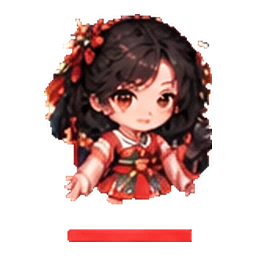
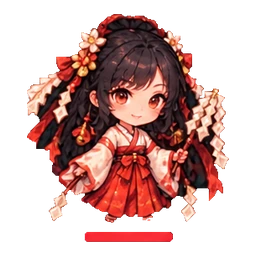
fix: [ART-POLISH-C-02] 무녀 식별성·정화 링 가독성 - 신당회 무녀 토큰을 새 그림(전신·흰 무구)으로 교체, 정화 도깨비·장산범 링을 금백색 2px + 바깥 먹색 1px 로 보강(번짐 없음), 달래 보스·다른 아트·규칙 변경 없음
Claude-Session: https://claude.ai/code/session_01EmF9GJCvFbzTipZNHHLaCs

diff --git a/joseon-exorcist/index.html b/joseon-exorcist/index.html
@@ -160,8 +160,10 @@
   .unit.has-art.k-human { background: rgba(142, 67, 56, .2); }
   .unit.has-art.f-bs, .unit.has-art.f-guest { background: rgba(51, 70, 85, .4); }
   .unit.has-art.k-boss { background: rgba(21, 20, 17, .75); } /* 1장 흑린: 자주 그림이 자주 바탕에 묻히지 않게 먹색 바탕 (테두리는 귀물 자주 그대로) */
-  /* ART-PHASE-C-02 (2장 정화된 도깨비·장산범): 1장과 같은 그림 + 그림 안쪽 옅은 금백색 가는 링 (자주 테두리·HP·표식 그대로) */
-  .unit.k-purified .art::after { content: ''; position: absolute; inset: 2px; border-radius: inherit; box-shadow: inset 0 0 0 1.5px rgba(236, 226, 198, .6); }
+  /* ART-PHASE-C-02 (2장 정화된 도깨비·장산범): 1장과 같은 그림 + 그림 안쪽 상태 링 (자주 테두리·HP·표식 그대로)
+     POLISH-C-02: 금백색 2px + 그 바깥 먹색 1px — 흰 장산범 털 위에서도 보이게. 번짐 없음 */
+  .unit.k-purified .art::after { content: ''; position: absolute; inset: 2px; border-radius: inherit;
+    box-shadow: inset 0 0 0 1px rgba(21, 20, 17, .85), inset 0 0 0 3px rgba(236, 226, 198, .9); }
   #ask { position: fixed; inset: 0; z-index: 44; background: rgba(4, 5, 8, .75); display: flex; align-items: center; justify-content: center; padding: 20px; }
   #ask .card { max-width: 340px; width: 100%; background: var(--panel); border: 1px solid #e2c26b; border-radius: 10px; padding: 18px 16px; text-align: center; display: flex; flex-direction: column; gap: 10px; }
   .pt.barrier { background: #3d6ea8; color: #fff; }

diff --git a/joseon-exorcist/QA-ART-PHASE-C-02.md b/joseon-exorcist/QA-ART-PHASE-C-02.md
@@ -42,3 +42,21 @@
 - **DESIGN**: 정화 링이 흰 장산범 위에서 거의 안 보인다 (도깨비 위에서는 보임). 링 색·두께 조정은 기획 판단
 - **BUG (이번 작업 전부터)**: 첫 화면(제목)에서 1장 토큰 9개를 불러온다 — 숨은 전투 판이 기본값 1장으로 한 번 그려지기 때문. `d09ccf1` 에서도 같음. 2장 진입 때의 미리 불러오기는 2장 그림만이다. 고치지 않음
 - 확인 스크립트 문제 2건 (알림 줄 사이 틈에 캡처 / 링 번짐 판정식) — 게임 코드 문제 아님
+
+## ART-POLISH-C-02 — 무녀 식별성 · 정화 링 가독성 (2026-09-27)
+- `assets/enemies/shindang_munyeo_battle.webp` → 새 무녀 그림으로 덮어씀 (파일명 그대로, contain, 확대 없음, 재크롭 없음). 적갈 네모·사람 표식·HP·🪭 fallback 그대로
+- 정화 링 (`dokkaebi_p`·`jangsan_p` 공통): 안쪽 금백색 2px + 그 바깥 먹색 1px. 위치(그림 안쪽 2px)·번짐 없음·자주 테두리·표식·HP 그대로
+- 달래 보스 · 다른 그림 · 규칙 · 대사 변경 없음. core 차이 없음
+- 확인: `node --test` 343 통과 / 2장 **PASS 25** (새 확인: 링 = 먹색 1px + 금백색 2px, 모든 겹 번짐 없음) / 1장 **20** / 1~4장 **32** (3·4장 이모지) / 5장 B **17** · A·POLISH **21** · UI **28** · 흐름 **19+15**
+- 캡처: `qa-shots/art-polish-c02/` — `munyeo-vs-dallae` `munyeo-info` `purified-jangsan-ring` `purified-dokkaebi-ring` + `munyeo-vs-dallae-close` (배율 4)
+
+| 질문 | 답 |
+|---|---|
+| 무녀가 달래와 1초 내 구분되는가 | 예 (나아짐) — 무녀는 흰 저고리·붉은 치마의 전신 + 양손 흰 무구(종이 술), 달래는 얼굴이 큰 반신. 둘 다 검은 머리·붉은 계열이라 폰 화면에서의 최종 판단은 사람 확인 |
+| 같은 적갈 테두리 안에서 얼굴·머리장식·실루엣이 다른가 | 예 — 무녀 붉은 머리 장식 + 세로로 긴 전신 / 달래 흰 끈 + 얼굴 위주 |
+| 무녀가 아군처럼 보이는가 | 아니오 — 적갈 각진 네모 + 사람 표식 |
+| 타일 밖으로 넘치는가 | 아니오 (자동 판정) |
+| 흰 장산범 위에서 링이 보이는가 | 예 — 먹색 선이 금백색 링의 경계를 잡아 준다 |
+| 도깨비에서 과한가 | 과하지 않음. 이전보다 눈에 띄지만 번짐 없는 가는 선 |
+| 아군 테두리처럼 보이는가 | 아니오 — 아군은 남청 둥근 네모, 링은 자주 동그라미 안쪽 |
+| HP·귀물 표식·외곽 테두리를 가리는가 | 아니오 — HP·표식이 링 위, 자주 테두리 그대로 |

diff --git a/joseon-exorcist/specs/design-audit.md b/joseon-exorcist/specs/design-audit.md
@@ -20,7 +20,7 @@
 - ✅ 정보 조회 카드의 시각적 식별 — 5장 조회 카드에 인물 썸네일 36px (플레이어 초상 / NPC·적 전투 그림), "정보 조회" 머리표·두 줄 구조 그대로
 - ✅ 행동 주체 vs 조회 대상 — 행동 줄(초상 + "행동 중") 과 조회 카드(한지색 + 썸네일 + "정보 조회") 가 그림까지 서로 달라 한 화면에서 구분된다
 - 1장도 같은 방식으로 그림 적용 (ART-PHASE-C-01): 지도·행동 줄·대사·정보 조회가 같은 인물 그림. 2~4장은 이모지 그대로. 칸·임무 정보(📜 🔍 👻 🧿 지형)는 아이콘 그대로
-- 2장도 적용 (ART-PHASE-C-02): 무녀만 새 그림, 달래·정화 요괴는 1장 그림 재사용 + 정화 요괴 안쪽 링. 3~4장은 이모지 그대로. 남은 문제: 무녀와 달래 토큰이 닮았다 (QA-ART-PHASE-C-02.md)
+- 2장도 적용 (ART-PHASE-C-02): 무녀만 새 그림, 달래·정화 요괴는 1장 그림 재사용 + 정화 요괴 안쪽 링. 3~4장은 이모지 그대로. 무녀·달래 닮음은 ART-POLISH-C-02 에서 무녀 그림 교체로 보완 (폰 확인 남음)
 
 ## 1. 모바일에서 버튼이 많아지는 순간
 

diff --git a/joseon-exorcist/PROGRESS.md b/joseon-exorcist/PROGRESS.md
@@ -231,7 +231,8 @@
   - `ART_ALLOW` 에 2장 추가 (대사 화자 달래 포함). 먹색 보스 바탕은 귀물 보스만 → 달래 보스는 적대 인간 바탕
   - 정화 도깨비·장산범만 그림 안쪽 옅은 금백색 링 (테두리·표식·HP 그대로)
   - 확인: 343 통과 / 2장 24 PASS / 1장 20 / 1~4장 32 / 5장 B 17 · A·POLISH 21 · UI 28 · 흐름 19+15 PASS — QA-ART-PHASE-C-02.md
-  - ART_REVIEW_REQUIRED: 무녀 그림이 달래와 닮아 35px 에서 구분이 어렵다 / DESIGN: 링이 흰 장산범 위에서 잘 안 보임 / BUG(기존): 첫 화면에서 1장 토큰 9개를 불러옴
+  - ~~ART_REVIEW_REQUIRED: 무녀 그림이 달래와 닮아 35px 에서 구분이 어렵다~~ / ~~DESIGN: 링이 흰 장산범 위에서 잘 안 보임~~ → ART-POLISH-C-02: 무녀 새 그림(전신·흰 무구) + 링 먹색 1px·금백색 2px (343 · 2장 25 · 1장 20 · 1~4장 32 · 5장 전부 PASS)
+  - BUG(기존, 고치지 않음): 첫 화면에서 1장 토큰 9개를 불러옴
   - **push 안 함 · 미배포**. 커밋 1개
 
 ## 다음에 진행할 작업

diff --git a/joseon-exorcist/TASKS.md b/joseon-exorcist/TASKS.md
@@ -208,5 +208,6 @@
 ## [ART-PHASE-C-02 2장 유닛 아트] (Issue #24)
 - [x] 무녀 새 에셋 1개 · 달래·정화 요괴 기존 파일 재사용 · 2장 허용 목록 · 귀물 보스만 먹색 바탕 · 정화 요괴 안쪽 링
 - [x] 자동 테스트 · 2장 360×740 필수 캡처 10장 · 1장·3~4장·5장 회귀
+- [x] ART-POLISH-C-02 무녀 토큰 교체 · 정화 링 가독성 (먹색 1px + 금백색 2px)
 - [ ] 기획자 확인 (Game Director 검수)
 
